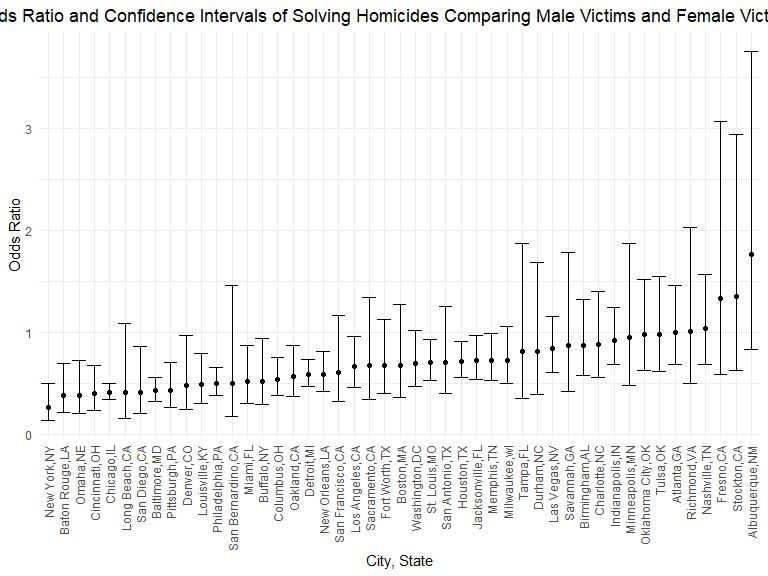
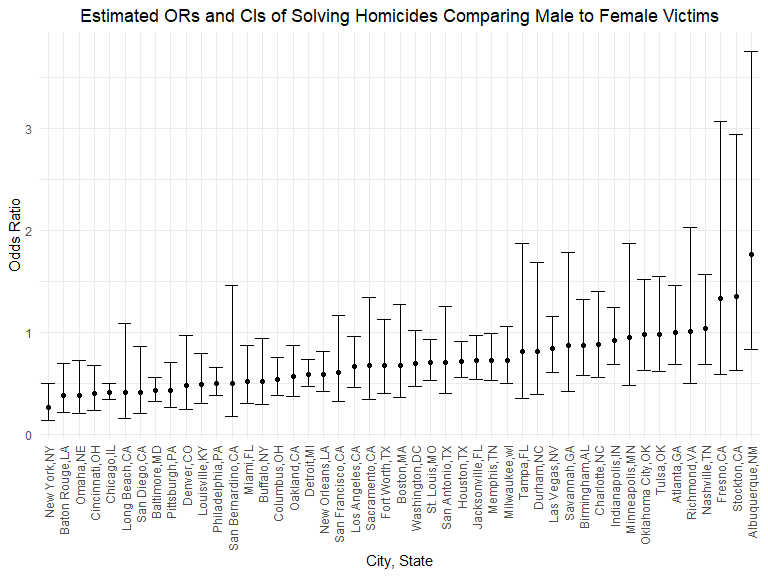
Problem 2 - Some changes for the picture

Changed region(s): [[0.0, 0.0, 1.0, 0.0625]]

diff --git a/p8105_hw6_sz2957.md b/p8105_hw6_sz2957.md
@@ -217,9 +217,11 @@ glm_homicides_df %>%
   ggplot(aes(x = city_state, y = OR))+
   geom_point()+
   geom_errorbar(mapping = aes(ymin = CI_lower, ymax = CI_upper))+
-  labs( x = "City, State",  y = "Odds Ratio", title = "Estimated Odds Ratio and Confidence Intervals of Solving Homicides Comparing Male Victims and Female Victims for Each City ") + 
+  labs( x = "City, State",  y = "Odds Ratio", title = "Estimated ORs and CIs of Solving Homicides Comparing Male to Female Victims") + 
   theme(plot.title = element_text(hjust = 0.5)) + 
   theme(axis.text.x = element_text(angle = 90, vjust = 0.5, hjust = 1))
 ```
 
 <img src="p8105_hw6_sz2957_files/figure-gfm/unnamed-chunk-6-1.png" width="90%" />
+
+### Problem 3
